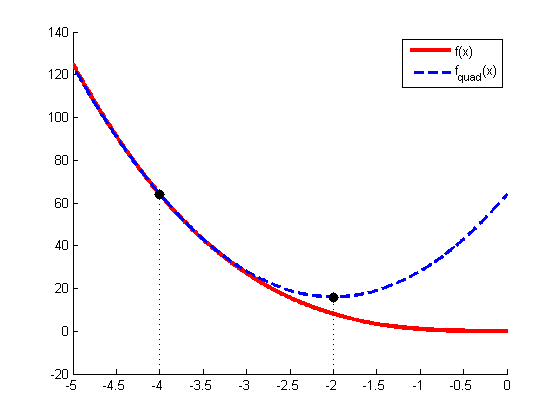
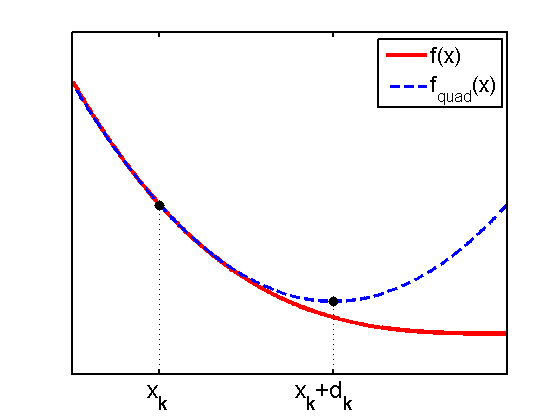
git-svn-id: https://pmtk3.googlecode.com/svn/trunk@2433 b6abd7f4-f95b-11de-aa3c-59de0406b4f5

diff --git a/docs/demoOutput/bookDemos/Unconstrained_optimization/newtonsMethodMinQuad.html b/docs/demoOutput/bookDemos/Unconstrained_optimization/newtonsMethodMinQuad.html
@@ -62,8 +62,10 @@ p.footer {
   color: gray;
 }
 
-  </style></head><body><div class="content"><h1>Illustration of a function g and its second order approximation.</h1><!--introduction--><!--/introduction--><h2>Contents</h2><div><ul><li><a href="#3">x^(k)</a></li><li><a href="#4">x^(k) + v^(k)</a></li></ul></div><pre class="codeinput"><span class="keyword">function</span> newtonsMethodMinQuad
-</pre><pre class="codeinput">figure(); hold <span class="string">on</span>;
+  </style></head><body><div class="content"><h1>Illustration of a function g and its second order approximation.</h1><!--introduction--><!--/introduction--><pre class="codeinput"><span class="keyword">function</span> newtonsMethodMinQuad
+
+
+figure(); hold <span class="string">on</span>;
 xmin   = -5;  xmax = 0;
 ymin   = -20; ymax = 150;
 domain = xmin:0.01:xmax;
@@ -81,12 +83,14 @@ plot(Xk, f(Xk), <span class="string">'.k'</span>, <span class="string">'MarkerSi
 plot([Xk, Xk], [ymin, f(Xk)], <span class="string">':k'</span>);
 plot(minimum, t(minimum), <span class="string">'.k'</span>, <span class="string">'MarkerSize'</span>, 25);
 plot([minimum, minimum], [ymin, t(minimum)], <span class="string">':k'</span>);
-</pre><img vspace="5" hspace="5" src="newtonsMethodMinQuad_01.png" alt=""> <h2>x^(k)<a name="3"></a></h2><pre class="codeinput">annotation(gcf,<span class="string">'textbox'</span>        , [0.25 0 0.09946 0.11]  , <span class="keyword">...</span>
+<span class="comment">% x^(k)</span>
+annotation(gcf,<span class="string">'textbox'</span>        , [0.25 0 0.09946 0.11]  , <span class="keyword">...</span>
                <span class="string">'String'</span>         , {<span class="string">'x_{k}'</span>}              , <span class="keyword">...</span>
                <span class="string">'FontSize'</span>       , 18                     , <span class="keyword">...</span>
                <span class="string">'FitBoxToText'</span>   , <span class="string">'off'</span>                  , <span class="keyword">...</span>
                <span class="string">'LineStyle'</span>      , <span class="string">'none'</span>                 );
-</pre><img vspace="5" hspace="5" src="newtonsMethodMinQuad_02.png" alt=""> <h2>x^(k) + v^(k)<a name="4"></a></h2><pre class="codeinput">annotation(gcf,<span class="string">'textbox'</span>        ,[0.515 0 0.09946 0.11]  , <span class="keyword">...</span>
+<span class="comment">% x^(k) + v^(k)</span>
+annotation(gcf,<span class="string">'textbox'</span>        ,[0.515 0 0.09946 0.11]  , <span class="keyword">...</span>
                <span class="string">'String'</span>         ,{<span class="string">'x_{k}+d_{k}'</span>}         , <span class="keyword">...</span>
                <span class="string">'FontSize'</span>       ,18                      , <span class="keyword">...</span>
                <span class="string">'FitBoxToText'</span>   ,<span class="string">'off'</span>                   , <span class="keyword">...</span>
@@ -99,8 +103,9 @@ set(gca, <span class="string">'XTick'</span>      , [Xk, minimum], <span class="
          <span class="string">'Box'</span>        , <span class="string">'on'</span>         , <span class="keyword">...</span>
          <span class="string">'LineWidth'</span>  , 2            );
 printPmtkFigure(<span class="string">'newtonsMethodMinQuad'</span>);
-</pre><img vspace="5" hspace="5" src="newtonsMethodMinQuad_03.png" alt=""> <pre class="codeinput"><span class="keyword">end</span>
-</pre><p class="footer"><br>
+
+<span class="keyword">end</span>
+</pre><img vspace="5" hspace="5" src="newtonsMethodMinQuad_01.png" alt=""> <p class="footer"><br>
       Published with MATLAB&reg; 7.10<br></p></div><!--
 ##### SOURCE BEGIN #####
 %% Illustration of a function g and its second order approximation.
@@ -127,13 +132,13 @@ plot(Xk, f(Xk), '.k', 'MarkerSize', 25);
 plot([Xk, Xk], [ymin, f(Xk)], ':k');
 plot(minimum, t(minimum), '.k', 'MarkerSize', 25);
 plot([minimum, minimum], [ymin, t(minimum)], ':k');
-%% x^(k)
+% x^(k)
 annotation(gcf,'textbox'        , [0.25 0 0.09946 0.11]  , ...
                'String'         , {'x_{k}'}              , ...
                'FontSize'       , 18                     , ...
                'FitBoxToText'   , 'off'                  , ...
                'LineStyle'      , 'none'                 );
-%% x^(k) + v^(k)
+% x^(k) + v^(k)
 annotation(gcf,'textbox'        ,[0.515 0 0.09946 0.11]  , ...
                'String'         ,{'x_{k}+d_{k}'}         , ... 
                'FontSize'       ,18                      , ...

diff --git a/docs/demoOutput/bookDemos/Unconstrained_optimization/newtonsMethodMin1d.html b/docs/demoOutput/bookDemos/Unconstrained_optimization/newtonsMethodMin1d.html
@@ -62,8 +62,10 @@ p.footer {
   color: gray;
 }
 
-  </style></head><body><div class="content"><h1>Illustration of Newton's method for minimizing a 1d function</h1><!--introduction--><!--/introduction--><h2>Contents</h2><div><ul><li><a href="#3">x^(k)</a></li><li><a href="#4">x^(k) + v^(k)</a></li></ul></div><pre class="codeinput"><span class="keyword">function</span> newtonsMethodMin1d
-</pre><pre class="codeinput">figure(); hold <span class="string">on</span>;
+  </style></head><body><div class="content"><h1>Illustration of Newton's method for minimizing a 1d function</h1><!--introduction--><!--/introduction--><pre class="codeinput"><span class="keyword">function</span> newtonsMethodMin1d
+
+
+figure(); hold <span class="string">on</span>;
 xmin = 0.1;  xmax = 12;
 ymin = -5; ymax = 4;
 domain = xmin:0.01:xmax;
@@ -80,12 +82,15 @@ plot(Xk, f(Xk), <span class="string">'.k'</span>, <span class="string">'MarkerSi
 plot(-b/m, 0, <span class="string">'.k'</span>, <span class="string">'MarkerSize'</span>, 25);
 plot([Xk,Xk], [ymin, f(Xk)], <span class="string">':k'</span>);
 plot([-b/m, -b/m], [ymin, 0], <span class="string">':k'</span>);
-</pre><img vspace="5" hspace="5" src="newtonsMethodMin1d_01.png" alt=""> <h2>x^(k)<a name="3"></a></h2><pre class="codeinput">annotation(gcf,<span class="string">'textbox'</span>        ,[0.2 0 0.09946 0.11],<span class="keyword">...</span>
+<span class="comment">% x^(k)</span>
+annotation(gcf,<span class="string">'textbox'</span>        ,[0.2 0 0.09946 0.11],<span class="keyword">...</span>
                <span class="string">'String'</span>         ,{<span class="string">'x_{k}'</span>},<span class="keyword">...</span>
                <span class="string">'FontSize'</span>       ,18,<span class="keyword">...</span>
                <span class="string">'FitBoxToText'</span>   ,<span class="string">'off'</span>,<span class="keyword">...</span>
                <span class="string">'LineStyle'</span>      ,<span class="string">'none'</span>);
-</pre><img vspace="5" hspace="5" src="newtonsMethodMin1d_02.png" alt=""> <h2>x^(k) + v^(k)<a name="4"></a></h2><pre class="codeinput">annotation(gcf,<span class="string">'textbox'</span>        ,[0.345 0 0.09946 0.11],<span class="keyword">...</span>
+
+<span class="comment">% x^(k) + v^(k)</span>
+annotation(gcf,<span class="string">'textbox'</span>        ,[0.345 0 0.09946 0.11],<span class="keyword">...</span>
                <span class="string">'String'</span>         ,{<span class="string">'x_{k}+d_{k}'</span>},<span class="keyword">...</span>
                <span class="string">'FontSize'</span>       ,18,<span class="keyword">...</span>
                <span class="string">'FitBoxToText'</span>   ,<span class="string">'off'</span>,<span class="keyword">...</span>
@@ -94,8 +99,8 @@ axis([xmin, xmax, ymin, ymax]);
 set(gca,<span class="string">'XTick'</span>, [Xk, -b/m], <span class="string">'XTickLabel'</span>, {<span class="string">''</span>, <span class="string">''</span>}, <span class="keyword">...</span>
     <span class="string">'YTick'</span>, 0, <span class="string">'FontSize'</span>, 16, <span class="string">'Box'</span>, <span class="string">'on'</span>, <span class="string">'LineWidth'</span>, 2);
 printPmtkFigure(<span class="string">'newtonsMethodMin1d'</span>);
-</pre><img vspace="5" hspace="5" src="newtonsMethodMin1d_03.png" alt=""> <pre class="codeinput"><span class="keyword">end</span>
-</pre><p class="footer"><br>
+<span class="keyword">end</span>
+</pre><img vspace="5" hspace="5" src="newtonsMethodMin1d_01.png" alt=""> <p class="footer"><br>
       Published with MATLAB&reg; 7.10<br></p></div><!--
 ##### SOURCE BEGIN #####
 %% Illustration of Newton's method for minimizing a 1d function
@@ -121,14 +126,14 @@ plot(Xk, f(Xk), '.k', 'MarkerSize', 25);
 plot(-b/m, 0, '.k', 'MarkerSize', 25);
 plot([Xk,Xk], [ymin, f(Xk)], ':k');
 plot([-b/m, -b/m], [ymin, 0], ':k');
-%% x^(k)
+% x^(k)
 annotation(gcf,'textbox'        ,[0.2 0 0.09946 0.11],...
                'String'         ,{'x_{k}'},...
                'FontSize'       ,18,...
                'FitBoxToText'   ,'off',...
                'LineStyle'      ,'none');
 
-%% x^(k) + v^(k)
+% x^(k) + v^(k)
 annotation(gcf,'textbox'        ,[0.345 0 0.09946 0.11],...
                'String'         ,{'x_{k}+d_{k}'},...
                'FontSize'       ,18,...

diff --git a/demos/bookDemos/Unconstrained_optimization/newtonsMethodMinQuad.m b/demos/bookDemos/Unconstrained_optimization/newtonsMethodMinQuad.m
@@ -22,13 +22,13 @@ plot(Xk, f(Xk), '.k', 'MarkerSize', 25);
 plot([Xk, Xk], [ymin, f(Xk)], ':k');
 plot(minimum, t(minimum), '.k', 'MarkerSize', 25);
 plot([minimum, minimum], [ymin, t(minimum)], ':k');
-%% x^(k)
+% x^(k)
 annotation(gcf,'textbox'        , [0.25 0 0.09946 0.11]  , ...
                'String'         , {'x_{k}'}              , ...
                'FontSize'       , 18                     , ...
                'FitBoxToText'   , 'off'                  , ...
                'LineStyle'      , 'none'                 );
-%% x^(k) + v^(k)
+% x^(k) + v^(k)
 annotation(gcf,'textbox'        ,[0.515 0 0.09946 0.11]  , ...
                'String'         ,{'x_{k}+d_{k}'}         , ... 
                'FontSize'       ,18                      , ...

diff --git a/demos/bookDemos/Unconstrained_optimization/newtonsMethodMin1d.m b/demos/bookDemos/Unconstrained_optimization/newtonsMethodMin1d.m
@@ -21,14 +21,14 @@ plot(Xk, f(Xk), '.k', 'MarkerSize', 25);
 plot(-b/m, 0, '.k', 'MarkerSize', 25);
 plot([Xk,Xk], [ymin, f(Xk)], ':k');
 plot([-b/m, -b/m], [ymin, 0], ':k');
-%% x^(k)
+% x^(k)
 annotation(gcf,'textbox'        ,[0.2 0 0.09946 0.11],...
                'String'         ,{'x_{k}'},...
                'FontSize'       ,18,...
                'FitBoxToText'   ,'off',...
                'LineStyle'      ,'none');
 
-%% x^(k) + v^(k)
+% x^(k) + v^(k)
 annotation(gcf,'textbox'        ,[0.345 0 0.09946 0.11],...
                'String'         ,{'x_{k}+d_{k}'},...
                'FontSize'       ,18,...
